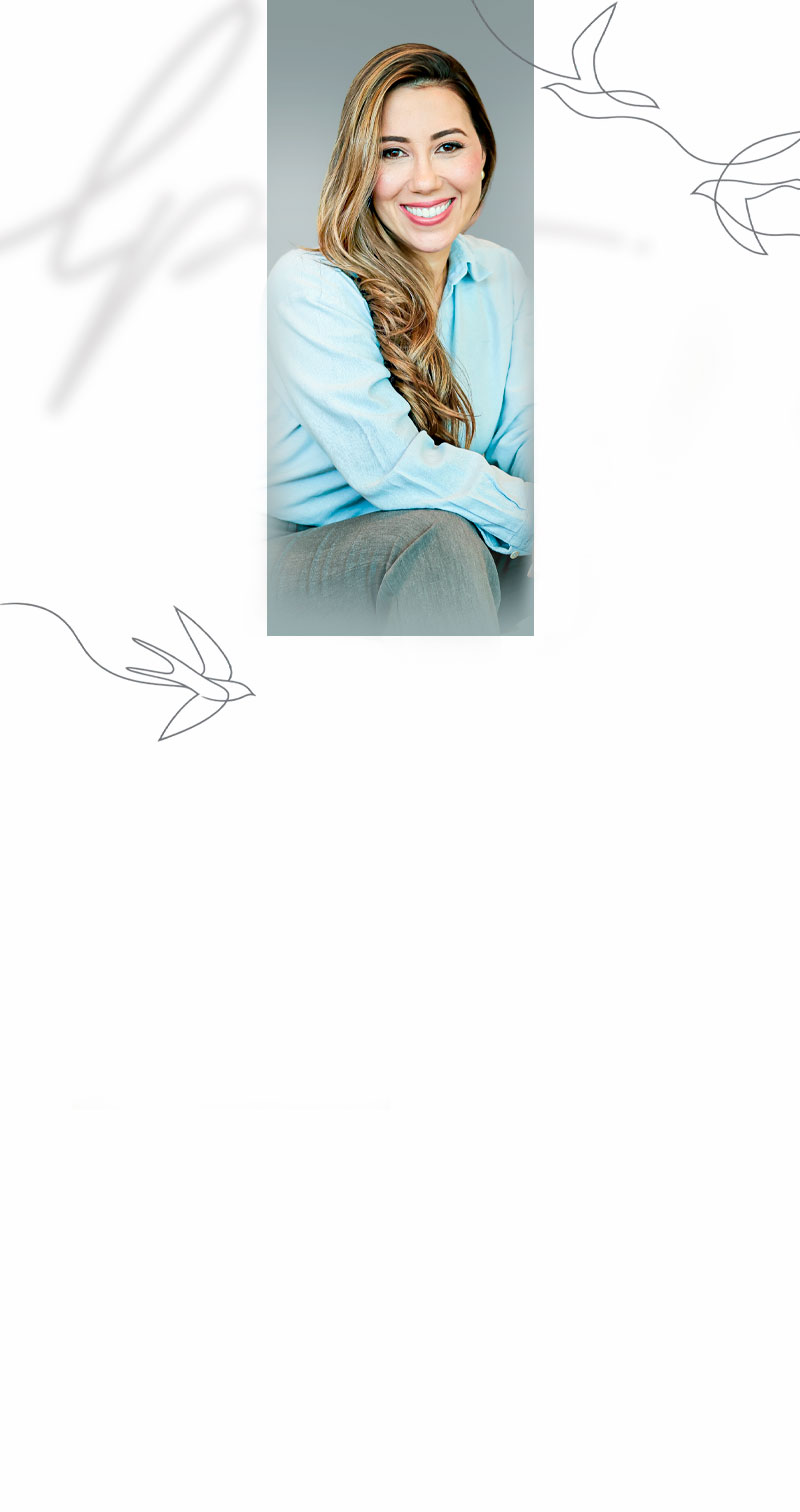
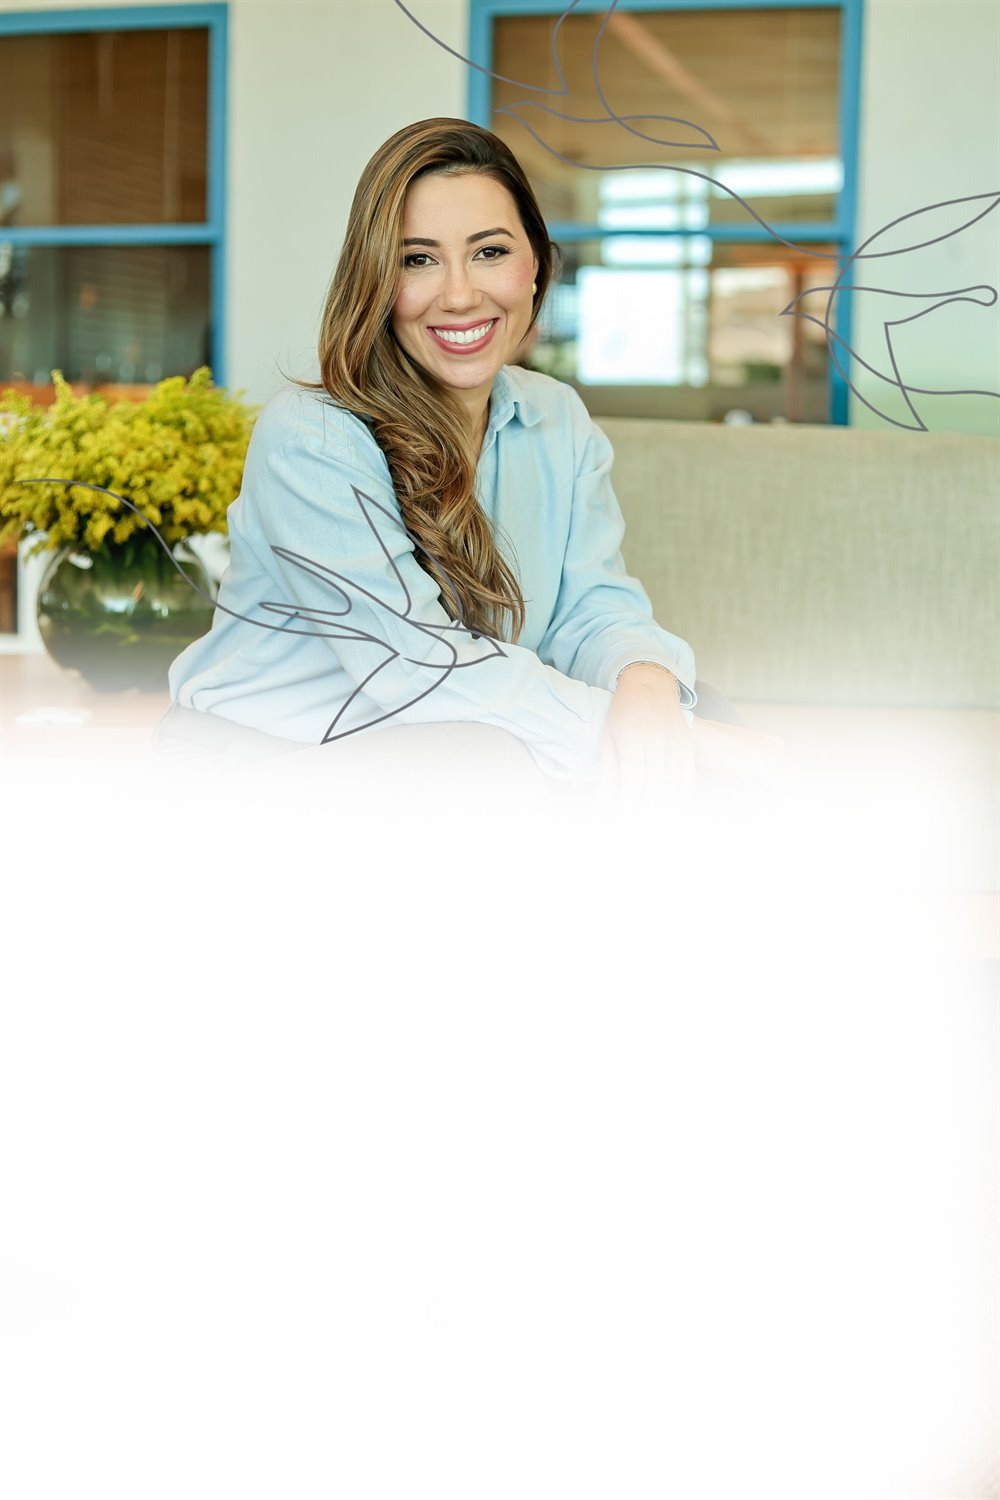
maub

diff --git a/index.html b/index.html
@@ -69,7 +69,7 @@
 
       .portrait-hero {
         width: 100%;
-        aspect-ratio: 800 / 705;
+        aspect-ratio: 1000 / 840;
         background: var(--paper) url("assets/background-laiza.jpg") top center / 100% auto no-repeat;
       }
 
